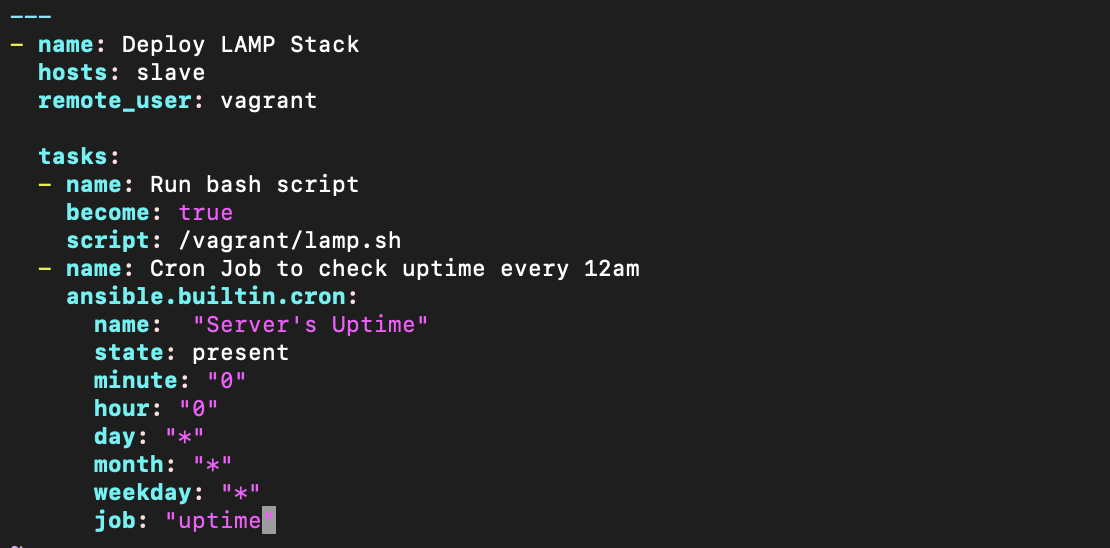
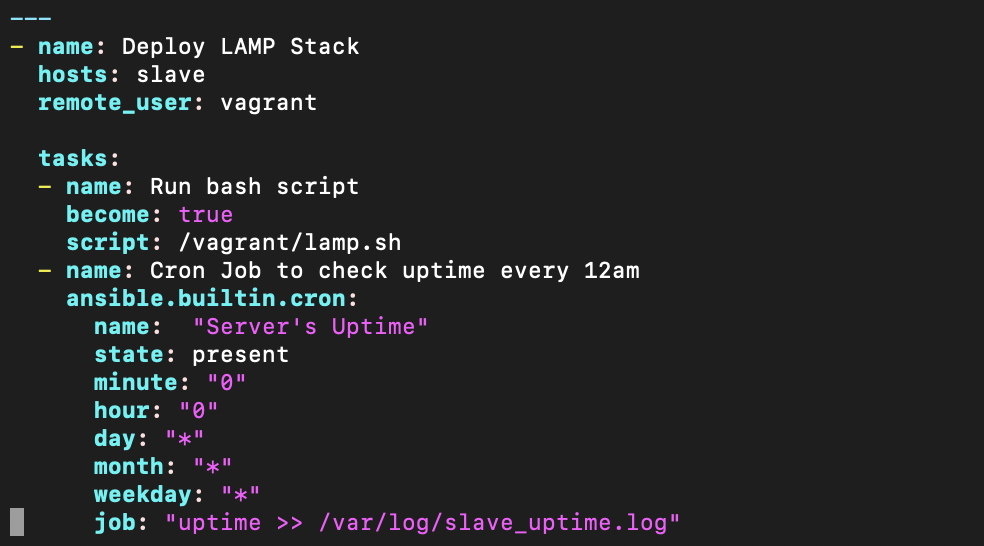
upp

Changed region(s): [[0.0305, 0.2491, 0.7012, 0.9963], [0.0, 0.0311, 0.3659, 0.2179], [0.0, 0.9341, 0.0305, 1.0]]

diff --git a/README.md b/README.md
@@ -302,7 +302,7 @@ As seen in the image above, the ansible playbook runs two tasks on my `slave` se
     
     - The configuration `minute: "0"`, `hour: "0"`, `day: "*"`, `month:  "*"`, `weekday:"*"` sets the cron job to run at minute 0 of the first hour of everyday  of every month, which translates to everyday at 12am.
 
-    - The job "uptime" is the command used to check for a server's uptime.
+    - The job "uptime >> /var/log/salve_uptime.log" is the command used to check for a server's uptime and logs it in the file `/var/log/salve_uptime.log`.
 
 - My host inventory contains only the `slave` server as shown below:
 
